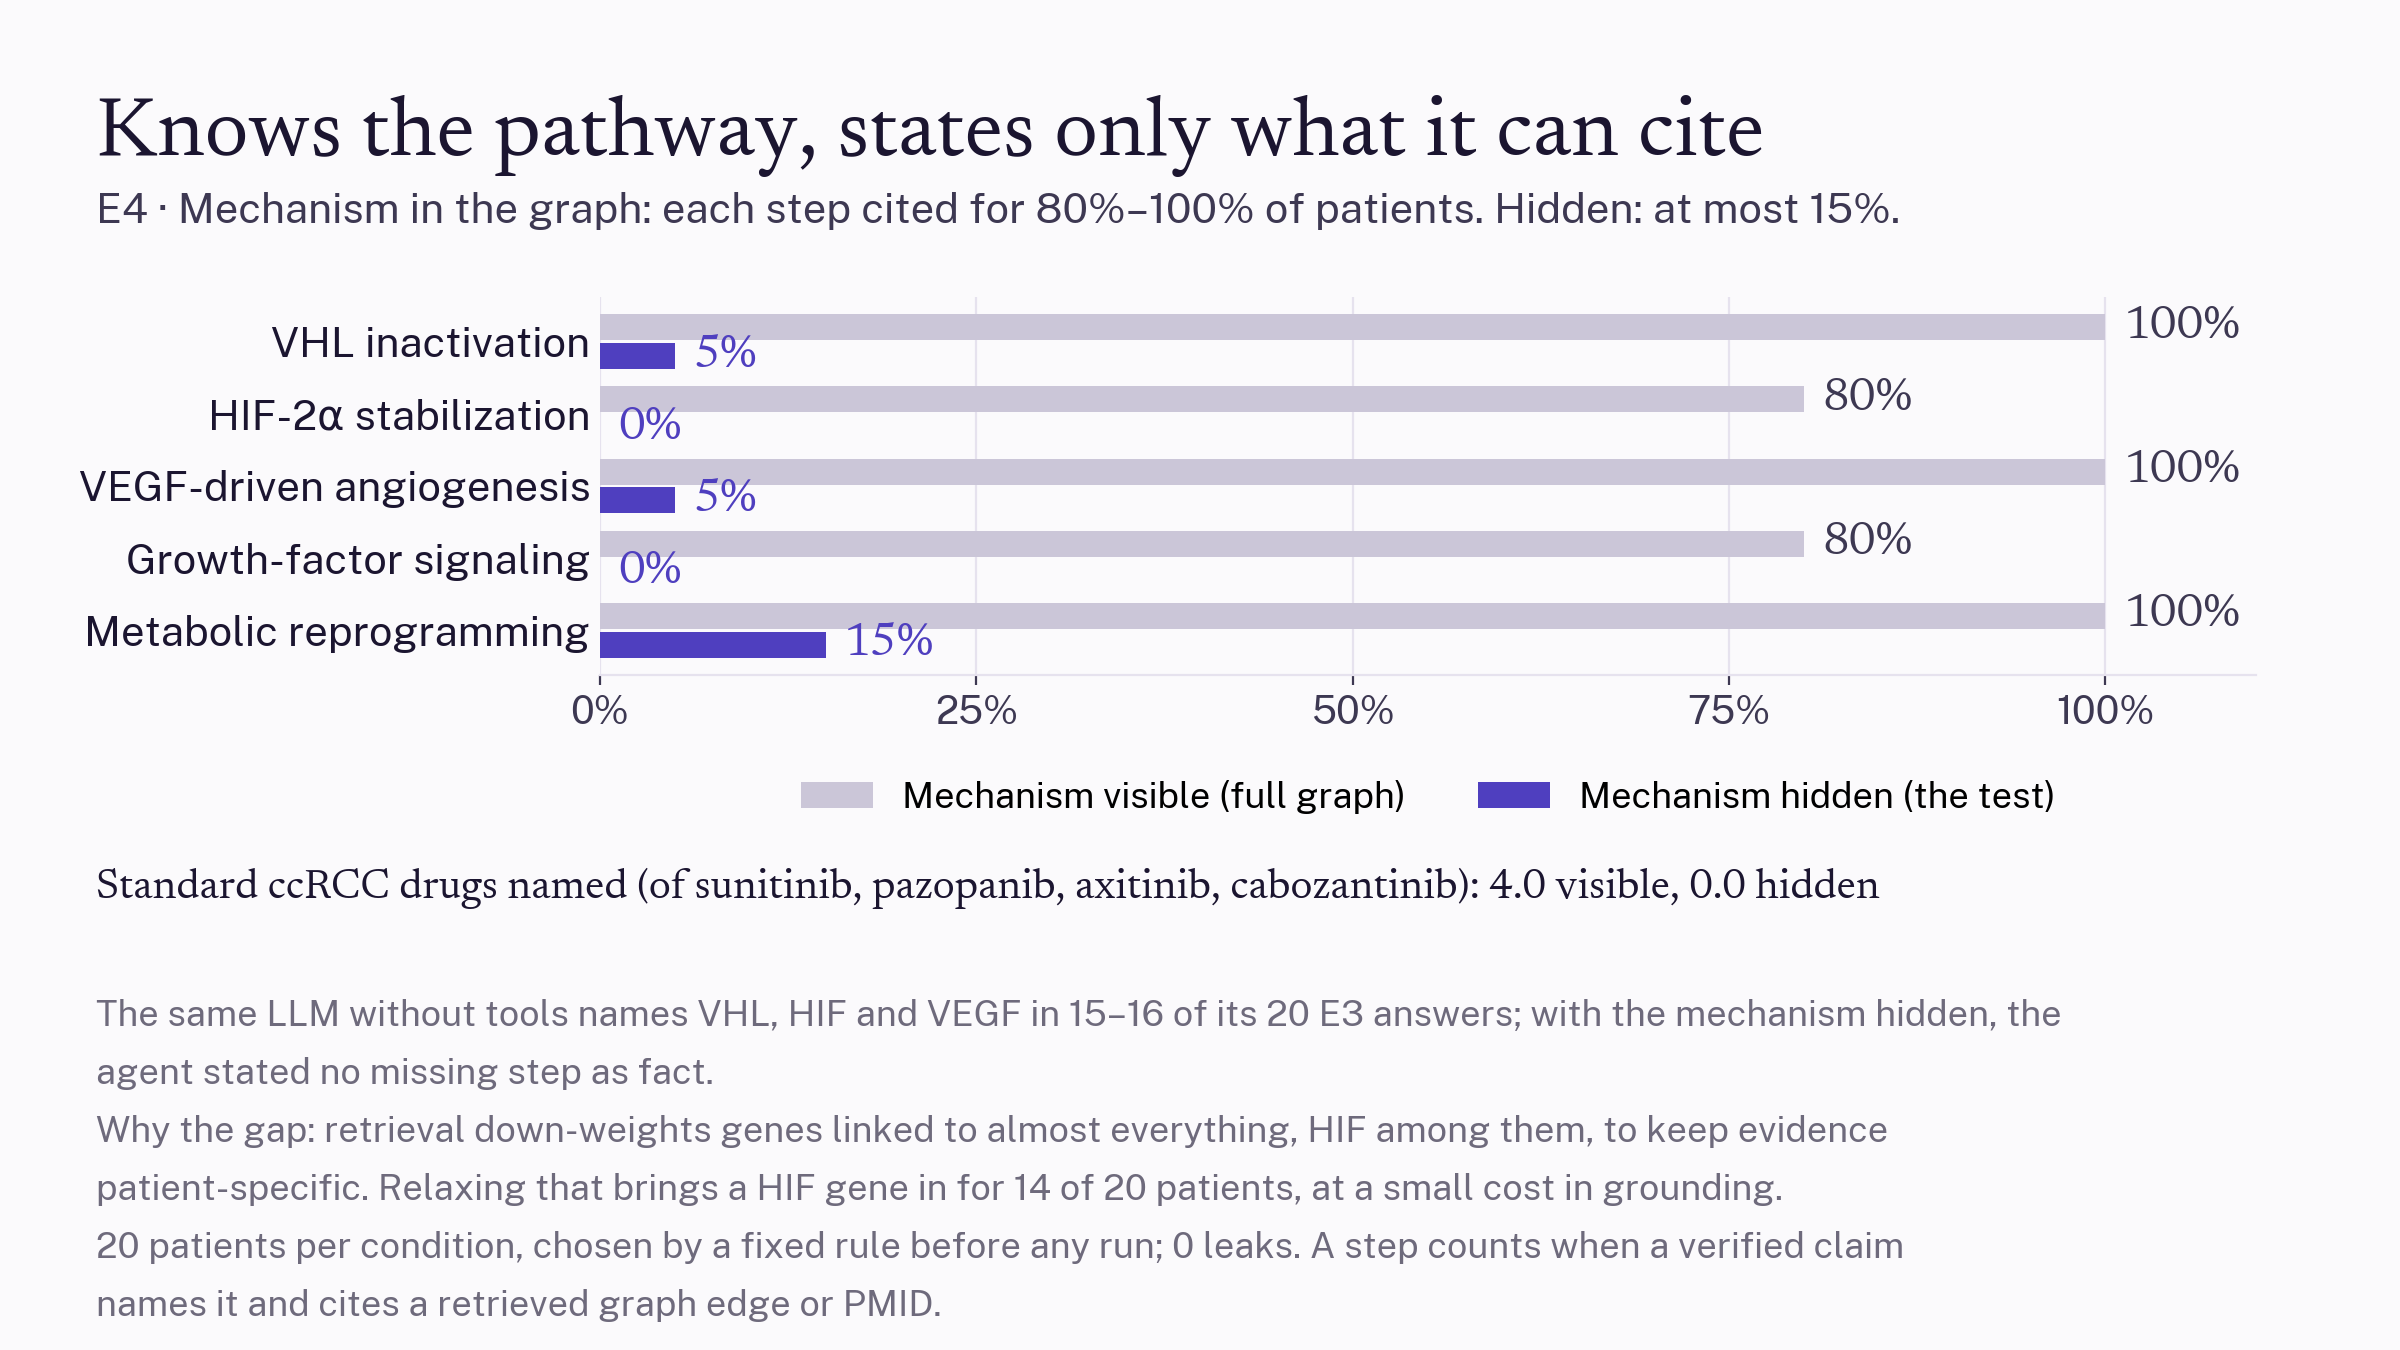
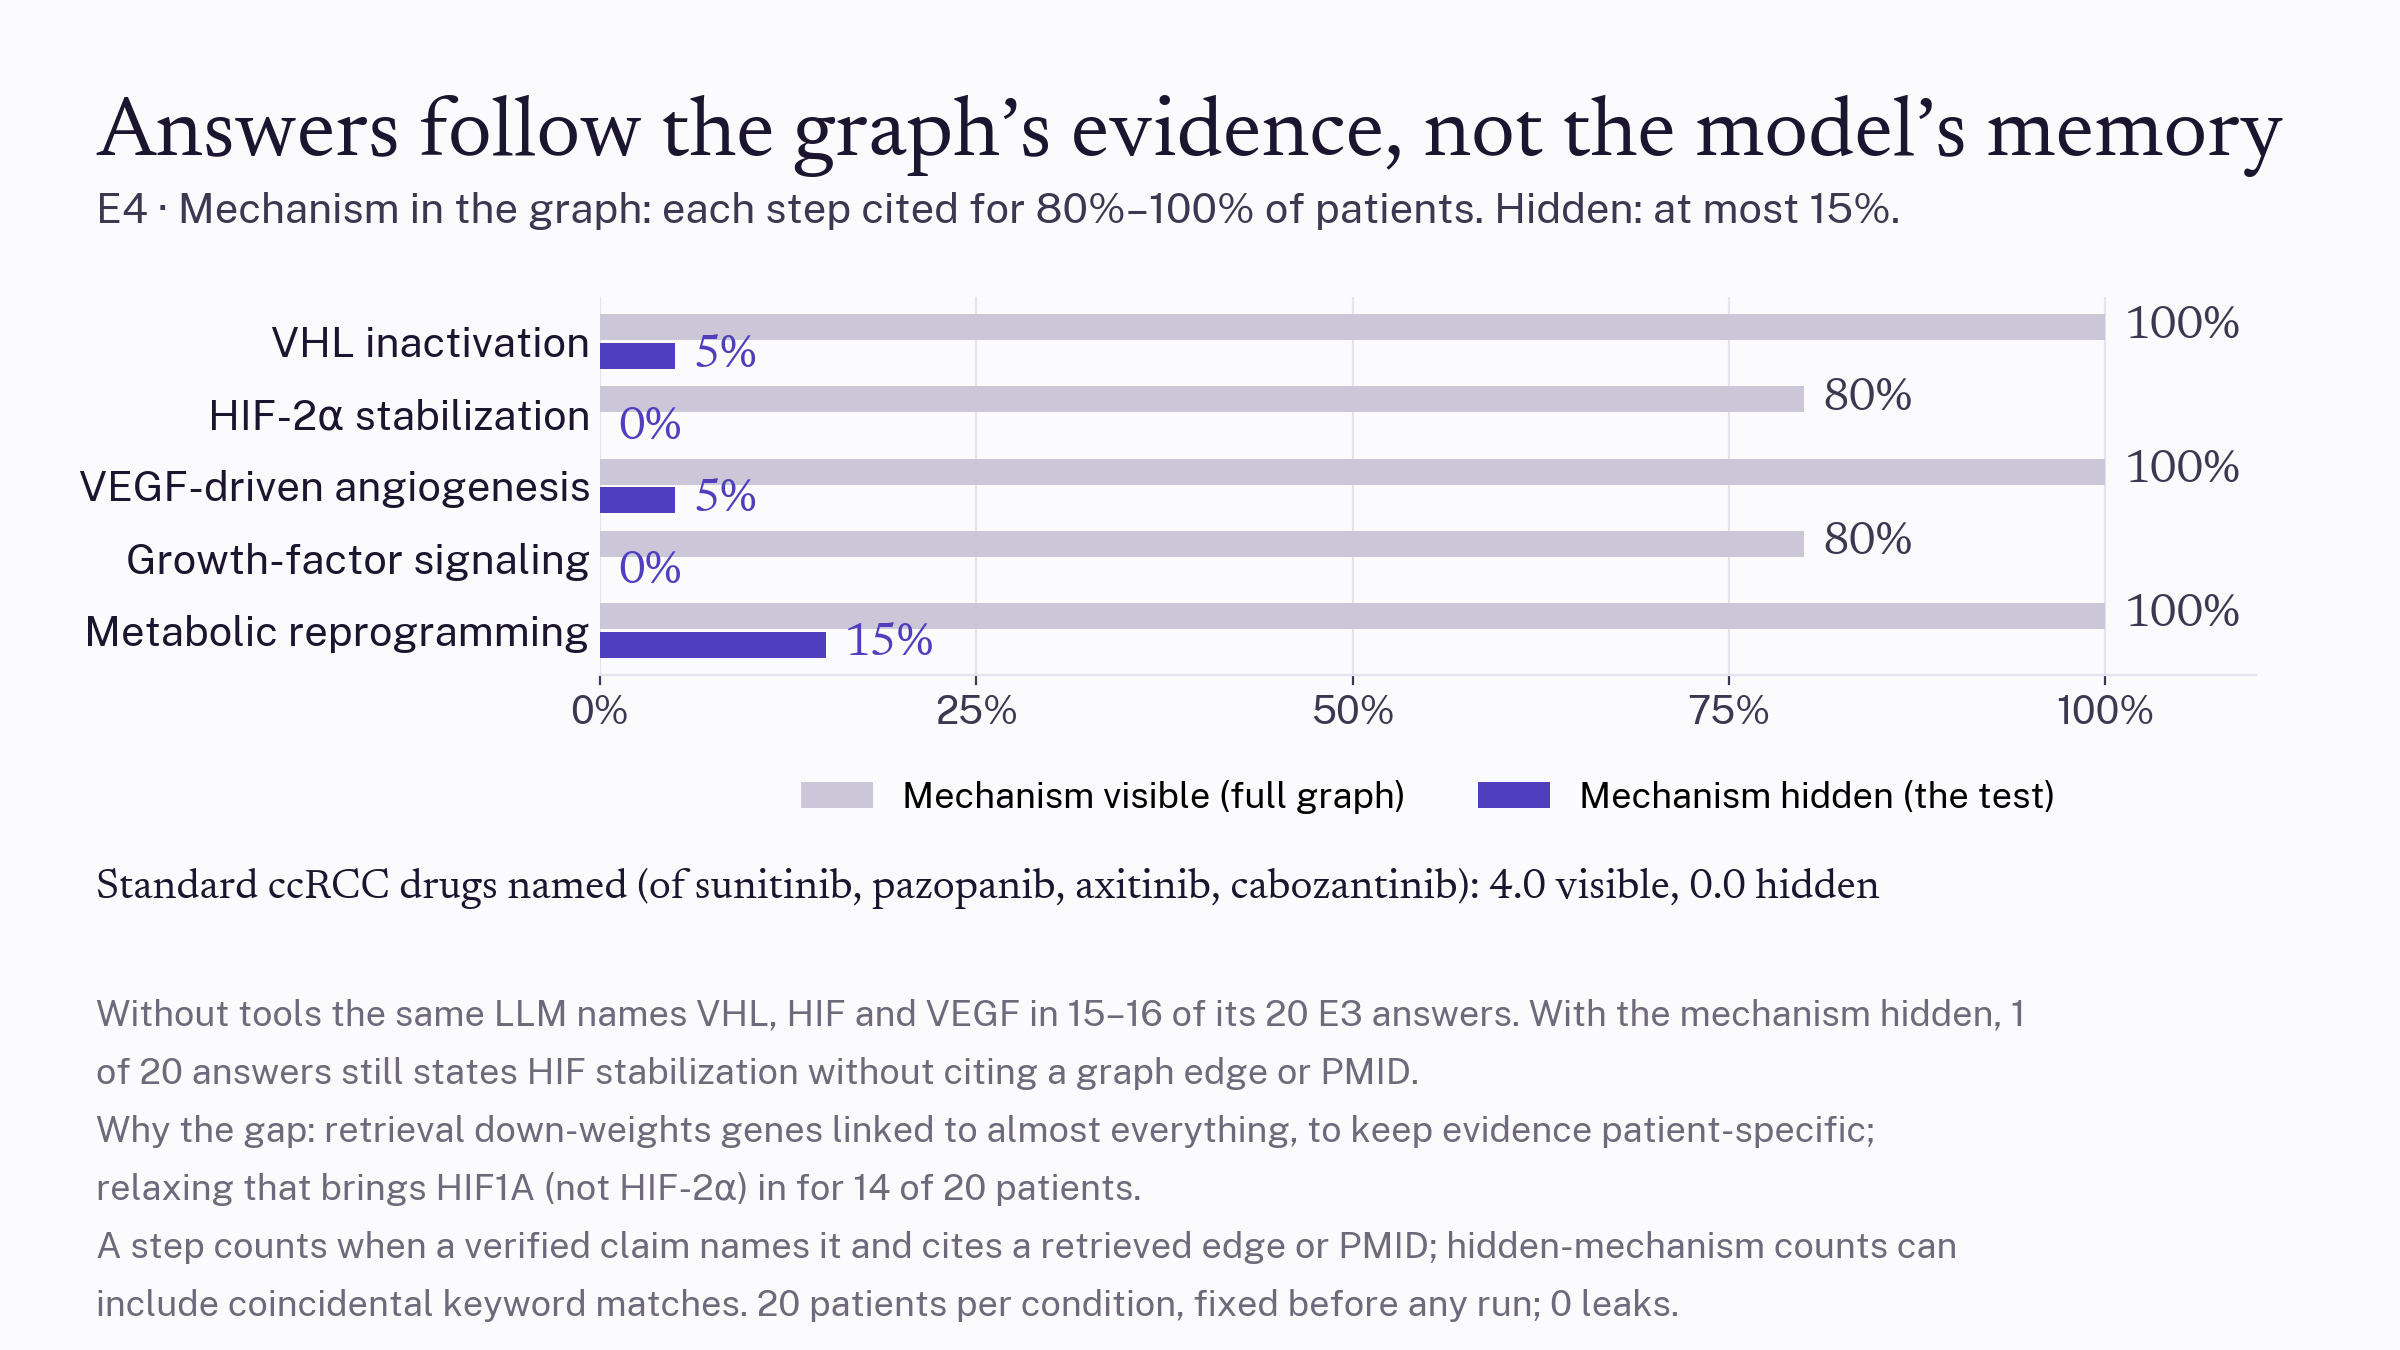
E4 slide: corrected per audit (title, uncited-HIF count, HIF1A, keyword caveat); sentences computed from files

Changed region(s): [[0.0312, 0.7467, 0.8438, 0.9956], [0.0312, 0.0622, 0.9688, 0.1244]]

diff --git a/eval/make_e4_cohort_chart.py b/eval/make_e4_cohort_chart.py
@@ -4,12 +4,15 @@
 
 Inputs: eval/results/e4_cohort_rv.json (DisMech's ccRCC chain hidden, the pre-registered cohort) and
 eval/results/e4_cohort_full_rv.json (full graph, the ceiling), both from eval/e4_cohort.py. Uses the strict column
-(step_recovery_kg: the supported claim cites a graph edge or PMID). Same look as eval/make_charts.py, whose
-helpers it imports; make_charts.py itself is unchanged.
+(step_recovery_kg: the supported claim cites a graph edge or PMID). Every sentence with a number is computed from
+files: the no-tools LLM's E3 drafts (eval/traces/e3_llm_only) and the retrieval diagnostic without the hub penalty
+(eval/results/e4_retrieval_diag_hub0.json). Same look as eval/make_charts.py, whose helpers it imports;
+make_charts.py itself is unchanged.
 """
 from __future__ import annotations
 
 import json
+import re
 import sys
 from pathlib import Path
 
@@ -19,31 +22,55 @@ from common.contracts import ROOT, P
 from eval import make_charts as M
 
 HIDDEN, FULL = P.results / "e4_cohort_rv.json", P.results / "e4_cohort_full_rv.json"
+DIAG_HUB0 = P.results / "e4_retrieval_diag_hub0.json"   # retrieval re-run without the hub penalty
+LLM_ONLY = P.traces / "e3_llm_only"                      # the same LLM with no tools (E3 baseline drafts)
+HIF2 = "HIF-2alpha Stabilization"
 LABELS = {  # answer-key label -> slide label (chain order, top to bottom)
     "VHL Tumor Suppressor Inactivation": "VHL inactivation",
-    "HIF-2alpha Stabilization": "HIF-2α stabilization",
+    HIF2: "HIF-2α stabilization",
     "VEGF-Driven Angiogenesis": "VEGF-driven angiogenesis",
     "Growth Factor Pathway Activation": "Growth-factor signaling",
     "Metabolic Reprogramming and Aerobic Glycolysis": "Metabolic reprogramming",
 }
-TRADEOFF = ("Why the gap: retrieval down-weights genes linked to almost everything, HIF among them, to keep evidence "
-            "patient-specific. Relaxing that brings a HIF gene in for 14 of 20 patients, at a small cost in grounding.")
+MEMORY_TERMS = {"VHL": r"\bVHL\b", "HIF": r"\bHIF|EPAS1", "VEGF": r"VEGF"}
 
 
 def load(path: Path) -> dict:
     M._need(path.exists(), f"{path} missing: run python -m eval.e4_cohort --reverify (and --variant full)")
     d = json.loads(path.read_text(encoding="utf-8"))
     o = d.get("overall") or {}
-    M._need(set(LABELS) <= set(o.get("step_recovery_kg", {})), f"{path}: step_recovery_kg lacks the 5 answer-key steps")
+    M._need(set(LABELS) <= set(o.get("step_recovery_kg", {})) and set(LABELS) <= set(o.get("step_recovery", {})),
+            f"{path}: step_recovery / step_recovery_kg lack the 5 answer-key steps")
     M._need(d.get("n_valid", 0) > 0, f"{path}: no valid traces")
+    n = int(d["n_valid"])
     return {"steps": [float(o["step_recovery_kg"][k]) for k in LABELS], "drugs": float(o["mean_drugs_surfaced"]),
-            "n": int(d["n_valid"]), "n_traces": int(d["n_traces"]), "leaky": int(d.get("n_leaky", 0))}
+            "n": n, "n_traces": int(d["n_traces"]), "leaky": int(d.get("n_leaky", 0)),
+            # answers stating the HIF-2a step in a supported claim with no graph edge or PMID among its citations
+            "hif2_uncited": round((float(o["step_recovery"][HIF2]) - float(o["step_recovery_kg"][HIF2])) * n)}
 
 
-def chart(hidden: dict, full: dict, out: Path) -> Path:
-    sub = (f"E4 \u00b7 Mechanism in the graph: each step cited for {min(full['steps']):.0%}\u2013"
+def llm_only_mentions(folder: Path = LLM_ONLY) -> tuple[int, int, int]:
+    """(lowest, highest, n): how many no-tools E3 drafts name VHL, HIF and VEGF, each counted separately."""
+    files = sorted(f for f in Path(folder).glob("*.json") if not f.name.startswith("_"))
+    M._need(bool(files), f"{folder}: no LLM-only E3 traces")
+    texts = [json.loads(f.read_text(encoding="utf-8")).get("draft") or "" for f in files]
+    counts = [sum(bool(re.search(p, t, re.I)) for t in texts) for p in MEMORY_TERMS.values()]
+    return min(counts), max(counts), len(texts)
+
+
+def hif_genes_without_penalty(path: Path = DIAG_HUB0) -> tuple[int, int, list[str]]:
+    """(patients whose re-run agent subgraph holds a HIF-family gene, patients, which genes), at hub penalty 0."""
+    M._need(path.exists(), f"{path} missing: run python -m eval.e4_retrieval_diag --hub 0")
+    d = json.loads(path.read_text(encoding="utf-8"))
+    rows = [v["arms"].get("agent_rerun", {}) for v in d["per_patient"].values()]
+    genes = sorted({g for r in rows for g in r.get("2_hif", [])})
+    return sum(bool(r.get("2_hif")) for r in rows), len(rows), genes
+
+
+def chart(hidden: dict, full: dict, out: Path, notes: dict) -> Path:
+    sub = (f"E4 · Mechanism in the graph: each step cited for {min(full['steps']):.0%}–"
            f"{max(full['steps']):.0%} of patients. Hidden: at most {max(hidden['steps']):.0%}.")
-    fig = M.figure("Knows the pathway, states only what it can cite", sub, False)
+    fig = M.figure("Answers follow the graph’s evidence, not the model’s memory", sub, False)
     ax = fig.add_axes([0.25, 0.5, 0.69, 0.28])
     y = np.arange(len(LABELS))[::-1].astype(float)
     h = 0.36
@@ -65,16 +92,26 @@ def chart(hidden: dict, full: dict, out: Path) -> Path:
     fig.text(0.04, 0.335, f"Standard ccRCC drugs named (of sunitinib, pazopanib, axitinib, cabozantinib): "
                           f"{full['drugs']:.1f} visible, {hidden['drugs']:.1f} hidden",
              fontsize=15, color=M.INK, family=M.SERIF)
-    M.foot(fig, "The same LLM without tools names VHL, HIF and VEGF in 15\u201316 of its 20 E3 answers; with the mechanism "
-                "hidden, the agent stated no missing step as fact.", TRADEOFF,
-           f"{hidden['n']} patients per condition, chosen by a fixed rule before any run; {hidden['leaky']} leaks. A step "
-           "counts when a verified claim names it and cites a retrieved graph edge or PMID.")
+    lo, hi, n_llm = notes["llm_only"]
+    n_hif, n_pat, genes = notes["hub0"]
+    gene_txt = "/".join(genes) + (" (not HIF-2α)" if genes and "EPAS1" not in genes else "")
+    k = hidden["hif2_uncited"]
+    M.foot(fig,
+           f"Without tools the same LLM names VHL, HIF and VEGF in {lo}–{hi} of its {n_llm} E3 answers. With the "
+           f"mechanism hidden, {k} of {hidden['n']} answers still state{'s' if k == 1 else ''} "
+           "HIF stabilization without citing a graph edge or PMID.",
+           "Why the gap: retrieval down-weights genes linked to almost everything, to keep evidence patient-specific; "
+           f"relaxing that brings {gene_txt} in for {n_hif} of {n_pat} patients.",
+           "A step counts when a verified claim names it and cites a retrieved edge or PMID; hidden-mechanism counts can "
+           f"include coincidental keyword matches. {hidden['n']} patients per condition, fixed before any run; "
+           f"{hidden['leaky']} leaks.")
     return M.save(fig, out, "e4_cohort")
 
 
 def main(argv=None) -> int:
     try:
-        path = chart(load(HIDDEN), load(FULL), ROOT / "eval" / "figures")
+        notes = {"llm_only": llm_only_mentions(), "hub0": hif_genes_without_penalty()}
+        path = chart(load(HIDDEN), load(FULL), ROOT / "eval" / "figures", notes)
     except M.ValidationError as e:
         print(f"e4_cohort chart: {e}", file=sys.stderr)
         return 1

diff --git a/tests/test_make_e4_cohort_chart.py b/tests/test_make_e4_cohort_chart.py
@@ -10,17 +10,31 @@ from eval import make_charts as M
 from eval import make_e4_cohort_chart as C
 
 
-def _results(path, steps, drugs):
+def _results(path, kg, plain, drugs):
     path.write_text(json.dumps({"n_valid": 20, "n_traces": 20, "n_leaky": 0, "overall": {
-        "step_recovery_kg": dict(zip(C.LABELS, steps)), "mean_drugs_surfaced": drugs}}))
+        "step_recovery_kg": dict(zip(C.LABELS, kg)), "step_recovery": dict(zip(C.LABELS, plain)),
+        "mean_drugs_surfaced": drugs}}))
     return path
 
 
-def test_chart_renders(tmp_path):
-    hidden = C.load(_results(tmp_path / "h.json", [0.05, 0, 0.05, 0, 0.15], 0.0))
-    full = C.load(_results(tmp_path / "f.json", [1, 0.8, 1, 0.8, 1], 4.0))
-    png = C.chart(hidden, full, tmp_path)
+def test_chart_renders_and_counts_uncited_hif(tmp_path):
+    hidden = C.load(_results(tmp_path / "h.json", [0.05, 0, 0.05, 0, 0.15], [0.15, 0.05, 0.05, 0, 0.15], 0.0))
+    full = C.load(_results(tmp_path / "f.json", [1, 0.8, 1, 0.8, 1], [1, 0.8, 1, 0.8, 1], 4.0))
+    assert hidden["hif2_uncited"] == 1 and full["hif2_uncited"] == 0
+    png = C.chart(hidden, full, tmp_path, {"llm_only": (15, 16, 20), "hub0": (14, 20, ["HIF1A"])})
     assert png.name == "e4_cohort.png" and png.stat().st_size > 10_000
+
+
+def test_llm_only_and_hub0_notes(tmp_path):
+    d = tmp_path / "llm"
+    d.mkdir()
+    for i, text in enumerate(["VHL loss stabilises HIF-2a; VEGF", "VHL only", "nothing"]):
+        (d / f"Q{i}.json").write_text(json.dumps({"draft": text}))
+    assert C.llm_only_mentions(d) == (1, 2, 3)
+    diag = tmp_path / "diag.json"
+    diag.write_text(json.dumps({"per_patient": {"A": {"arms": {"agent_rerun": {"2_hif": ["HIF1A"]}}},
+                                                "B": {"arms": {"agent_rerun": {"2_hif": []}}}}}))
+    assert C.hif_genes_without_penalty(diag) == (1, 2, ["HIF1A"])
 
 
 def test_incomplete_results_are_refused(tmp_path):
